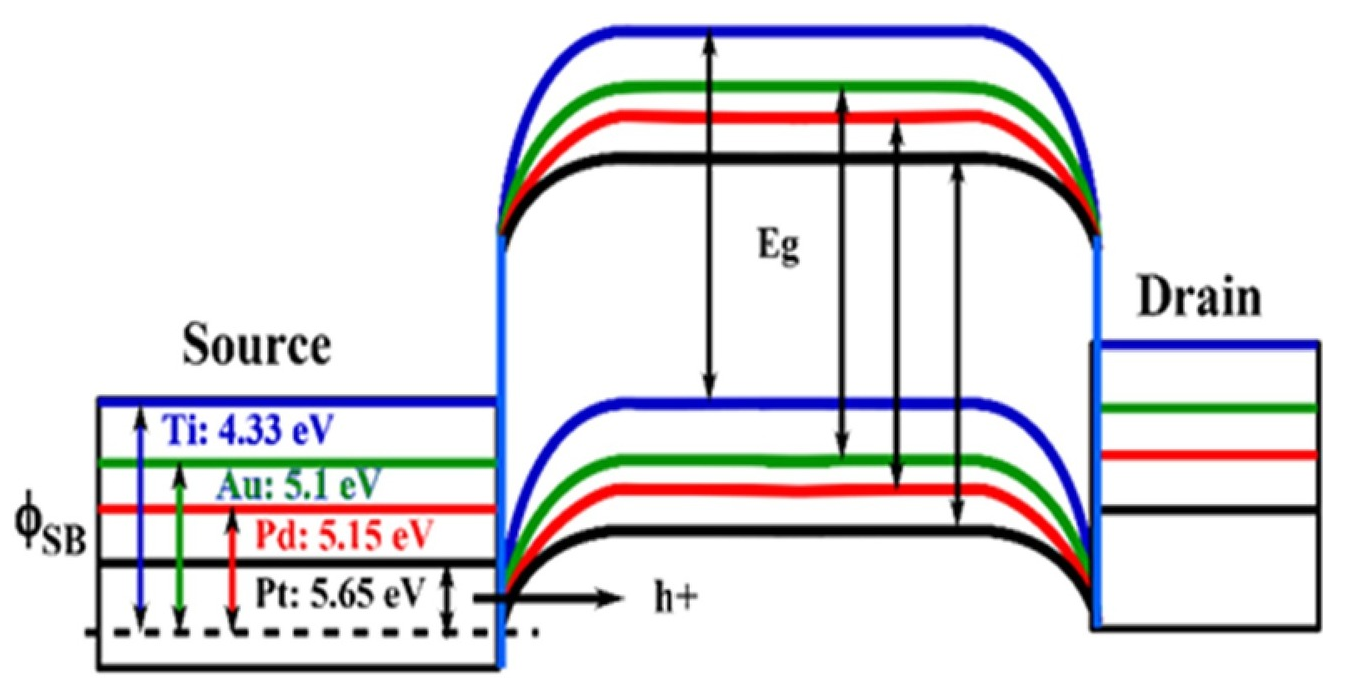
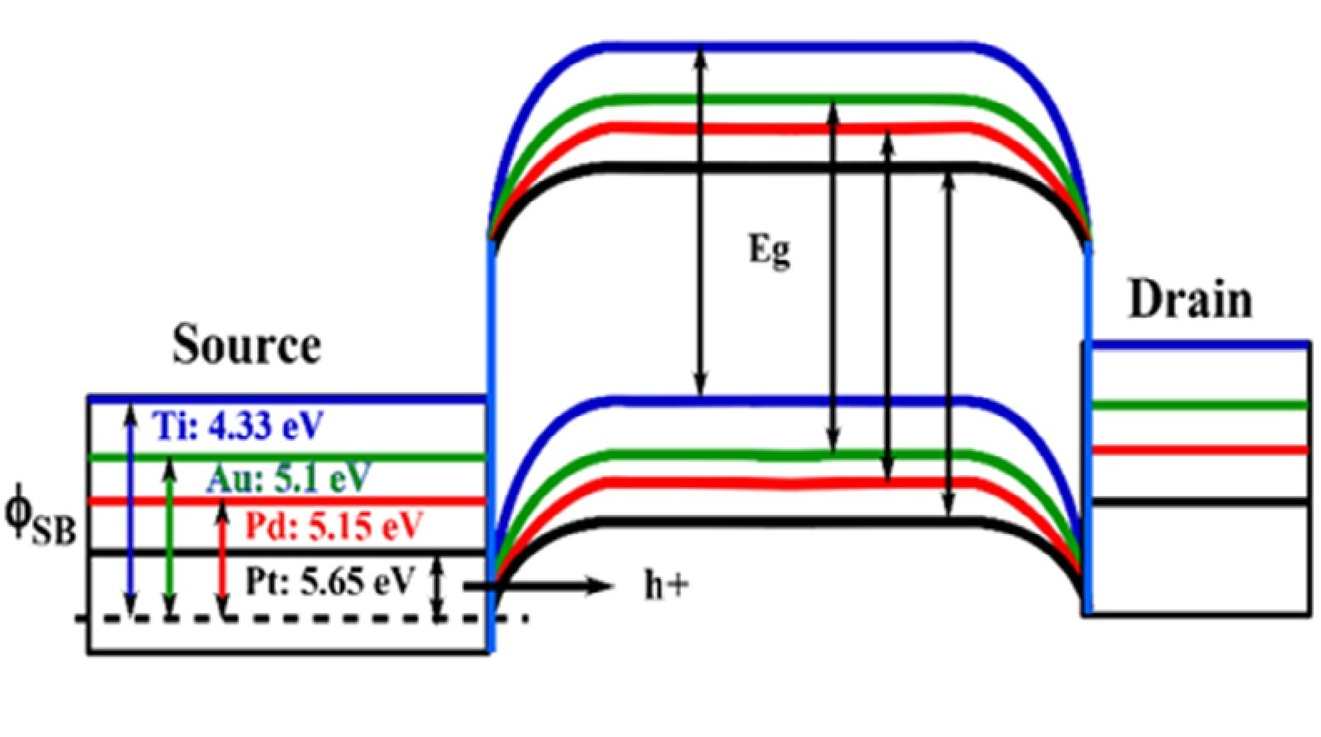
more corrections to ch2

diff --git a/Developing-an-Insect-Odorant-Receptor-Bioelectronic-Nose-for-Vapour-Phase-Detection.tex b/Developing-an-Insect-Odorant-Receptor-Bioelectronic-Nose-for-Vapour-Phase-Detection.tex
@@ -304,7 +304,7 @@ The immense support I received from Melissa Jordan and Colm Carraher from the In
 
 \pagestyle{headings}
 
-\ifdefined\Shaded\renewenvironment{Shaded}{\begin{tcolorbox}[borderline west={3pt}{0pt}{shadecolor}, boxrule=0pt, sharp corners, breakable, interior hidden, frame hidden, enhanced]}{\end{tcolorbox}}\fi
+\ifdefined\Shaded\renewenvironment{Shaded}{\begin{tcolorbox}[interior hidden, frame hidden, sharp corners, borderline west={3pt}{0pt}{shadecolor}, enhanced, breakable, boxrule=0pt]}{\end{tcolorbox}}\fi
 
 \renewcommand*\contentsname{Table of Contents}
 {
@@ -1397,13 +1397,13 @@ thin-film transistor channel in 2004 \autocite{Novoselov2004}, monolayer
 graphene has many desirable electronic properties. Charge carrier
 transport is ballistic over submicrometer distances at room temperature,
 and as graphene is metallic even at the Dirac point, this transport is
-not inhibited by a Schottky barrier at the metal contacts of a device
-\autocite{Novoselov2004,Geim2007,Peng2018}. Graphene is also a highly
-chemically stable material. In particular, it will not readily oxidise
-in an electrolyte solution due to having a large `electrochemical
-window'; in other words, it is too chemically stable to take part in
-electrochemical reactions within a large range of applied voltages
-\autocite{Ohno2015,Tran2016}.
+not inhibited by a significant potential barrier at the metal contacts
+of a device \autocite{Novoselov2004,Geim2007,Peng2018}. Graphene is also
+a highly chemically stable material. In particular, it will not readily
+oxidise in an electrolyte solution due to having a large
+`electrochemical window'; in other words, it is too chemically stable to
+take part in electrochemical reactions within a large range of applied
+voltages \autocite{Ohno2015,Tran2016}.
 
 \hypertarget{graphene-folds}{%
 \subsubsection*{Graphene Folds}\label{graphene-folds}}
@@ -1774,24 +1774,147 @@ size and chirality \autocite{Fuhrer2000,Hu2004,Cao2009,Murugathas2019}.
 
 The band bending which occurs at the interface between the metal
 electrodes of the device and the semiconducting carbon nanotubes is
-primarily responsible for CNT FET switching behaviour
-\autocite{Avouris2007,Bargaoui2018}. The Fermi level difference between
-materials leads to free electrons flowing across each interface until
-the Fermi levels equilibrate and a electric dipole layer forms. The net
-electric field created at each interface creates a space charge region
-in the channel, forming a Schottky barrier which prevents the further
-flow of a particular type of charge at each interface. The nature of the
-band bending and resulting Schottky barrier depends on the work function
-of the metal \autocite{Cowley1999,Kauffman2008,Zhang2012}. A high work
-function metal bends the valence band of the semiconductor towards the
-Fermi level of the metal, creating a low barrier for holes but a high
-barrier for electrons \autocite{Avouris2007,Zhang2012,Bargaoui2018}.
-Channel current results primarily from quantum tunnelling through
-Schottky barriers. The Schottky barriers at the metal electrodes result
-in one type of charge dominating flow, referred to as unipolar
-behaviour. However, if the barrier size is low for both holes and
-electrons, they can flow simultaneously through the channel, which is
-referred to as ambipolar behaviour \autocite{Avouris2007,Heller2008}.
+primarily responsible for carbon nanotube field-effect transistor
+switching behaviour \autocite{Avouris2007,Bargaoui2018}. The Fermi level
+difference between materials leads to free electrons flowing across each
+interface until the Fermi levels equilibrate and a electric dipole layer
+forms. The net electric field created at each interface creates a space
+charge region in the channel, resulting in a potential step known as a
+``Schottky barrier''. The net electric field also results in curvature
+of the bandstructure at the metal-semiconductor interface, which is why
+this process is referred to as ``band bending'' \autocite{Zhang2012}.
+Current primarily flows through the semiconductor channel by
+quantum-mechanically tunnelling through the Schottky barriers present at
+each electrode. The width of the Schottky barriers can be modulated by
+changing the gate voltage of the device, which can increase or decrease
+current flow across the channel depending on the magnitude and polarity
+of the gate voltage \autocite{Avouris2007,Bargaoui2018}. As CNT FETs are
+ambipolar, it is possible for both holes and electrons to flow across
+the channel; highly negative gate voltages lead to hole conduction while
+positive voltages lead to electron conduction \autocite{Avouris2007}.
+
+The relative height of the Schottky barriers present at the electrical
+contacts influences the magnitude of on-current obtainable by a device.
+An important factor in determining the Schottky barrier height of a
+device is the type of metal used for the contact, with the relationship
+between the type of metal used and resulting device on-current shown in
+Figure~\ref{fig-band-bending}. Titanium has a relatively low work
+function of 4.33 eV, leading to larger Schottky barriers at the
+electrodes and relatively low device on-current, while platinum has a
+relatively high work function of 5.65 eV, leading to smaller Schottky
+barriers and relatively high device on-current \autocite{Bargaoui2018}.
+The Schottky barrier height also influences the size of hole on-current
+relative to electron on-current. A high work function metal bends the
+valence band of the semiconductor towards the Fermi level of the metal,
+creating a low barrier for holes but a high barrier for electrons,
+leading to a much higher hole on-current relative to electron on-current
+\autocite{Avouris2007,Zhang2012,Bargaoui2018}.
+
+\begin{figure}
+
+\begin{minipage}[t]{0.03\linewidth}
+
+{\centering 
+
+\raisebox{-\height}{
+
+\includegraphics{figures/(a).png}
+
+}
+
+}
+
+\end{minipage}%
+%
+\begin{minipage}[t]{0.01\linewidth}
+
+{\centering 
+
+~
+
+}
+
+\end{minipage}%
+%
+\begin{minipage}[t]{0.45\linewidth}
+
+{\centering 
+
+\raisebox{-\height}{
+
+\includegraphics{figures/ch2/band-bending.png}
+
+}
+
+}
+
+\end{minipage}%
+%
+\begin{minipage}[t]{0.01\linewidth}
+
+{\centering 
+
+~
+
+}
+
+\end{minipage}%
+%
+\begin{minipage}[t]{0.03\linewidth}
+
+{\centering 
+
+\raisebox{-\height}{
+
+\includegraphics{figures/(b).png}
+
+}
+
+}
+
+\end{minipage}%
+%
+\begin{minipage}[t]{0.01\linewidth}
+
+{\centering 
+
+~
+
+}
+
+\end{minipage}%
+%
+\begin{minipage}[t]{0.45\linewidth}
+
+{\centering 
+
+\raisebox{-\height}{
+
+\includegraphics{figures/ch2/band-bending-current.png}
+
+}
+
+}
+
+\end{minipage}%
+%
+\begin{minipage}[t]{0.01\linewidth}
+
+{\centering 
+
+~
+
+}
+
+\end{minipage}%
+
+\caption{\label{fig-band-bending}The band bending which occurs at the
+metal-network interface is shown in (a) for platinum, palladium, gold
+and titanium electrodes, where \(\phi_{SB}\) is Schottky barrier height
+and \(E_g\) is bandgap size. Figures reproduced with permission from
+\autocite{Bargaoui2018}.}
+
+\end{figure}
 
 The behaviour of carbon nanotube network transistors is also influenced
 by a variety of potential barriers existing at junctions between carbon
@@ -1804,17 +1927,18 @@ length is much larger than that of individual nanotubes, channel current
 must pass through junctions placed along percolating pathways. When a
 network with density well above the percolation threshold\footnote{If
   only one electrical pathway exists across a sparse network, the
-  network density is at the `percolation threshold'. If a network is
-  below the percolation threshold, the channel cannot conduct
+  network density is at the `percolation threshold'. If network density
+  is below the percolation threshold, the channel cannot conduct
   \autocite{Hu2004,Topinka2009,Jang2015}.} contains a low proportion of
 semiconducting nanotubes, percolating pathways which only contain
 metallic nanotubes can exist. A device with this film will be highly
-conductive but cannot be gated \autocite{Fuhrer2000,Topinka2009}. Fixing
-the density but increasing the proportion of s-CNTs means m-s junctions
-become more prevalent. The introduced Schottky barriers cause a dramatic
-drop in conductance. As the proportion of s-CNTs approaches 100\%,
-semiconducting pathways with no metallic junctions emerge, and
-conductance sharply increases once more \autocite{Topinka2009}.
+conductive but is practically unaffected by gating
+\autocite{Fuhrer2000,Topinka2009}. Fixing the density but increasing the
+proportion of s-CNTs means m-s junctions become more prevalent. The
+introduced Schottky barriers cause a dramatic drop in conductance. As
+the proportion of s-CNTs approaches 100\%, semiconducting pathways with
+no metallic junctions emerge, and conductance sharply increases once
+more \autocite{Topinka2009}.
 
 \hypertarget{sec-electrical-characterisation-CNT}{%
 \subsection{Electrical
